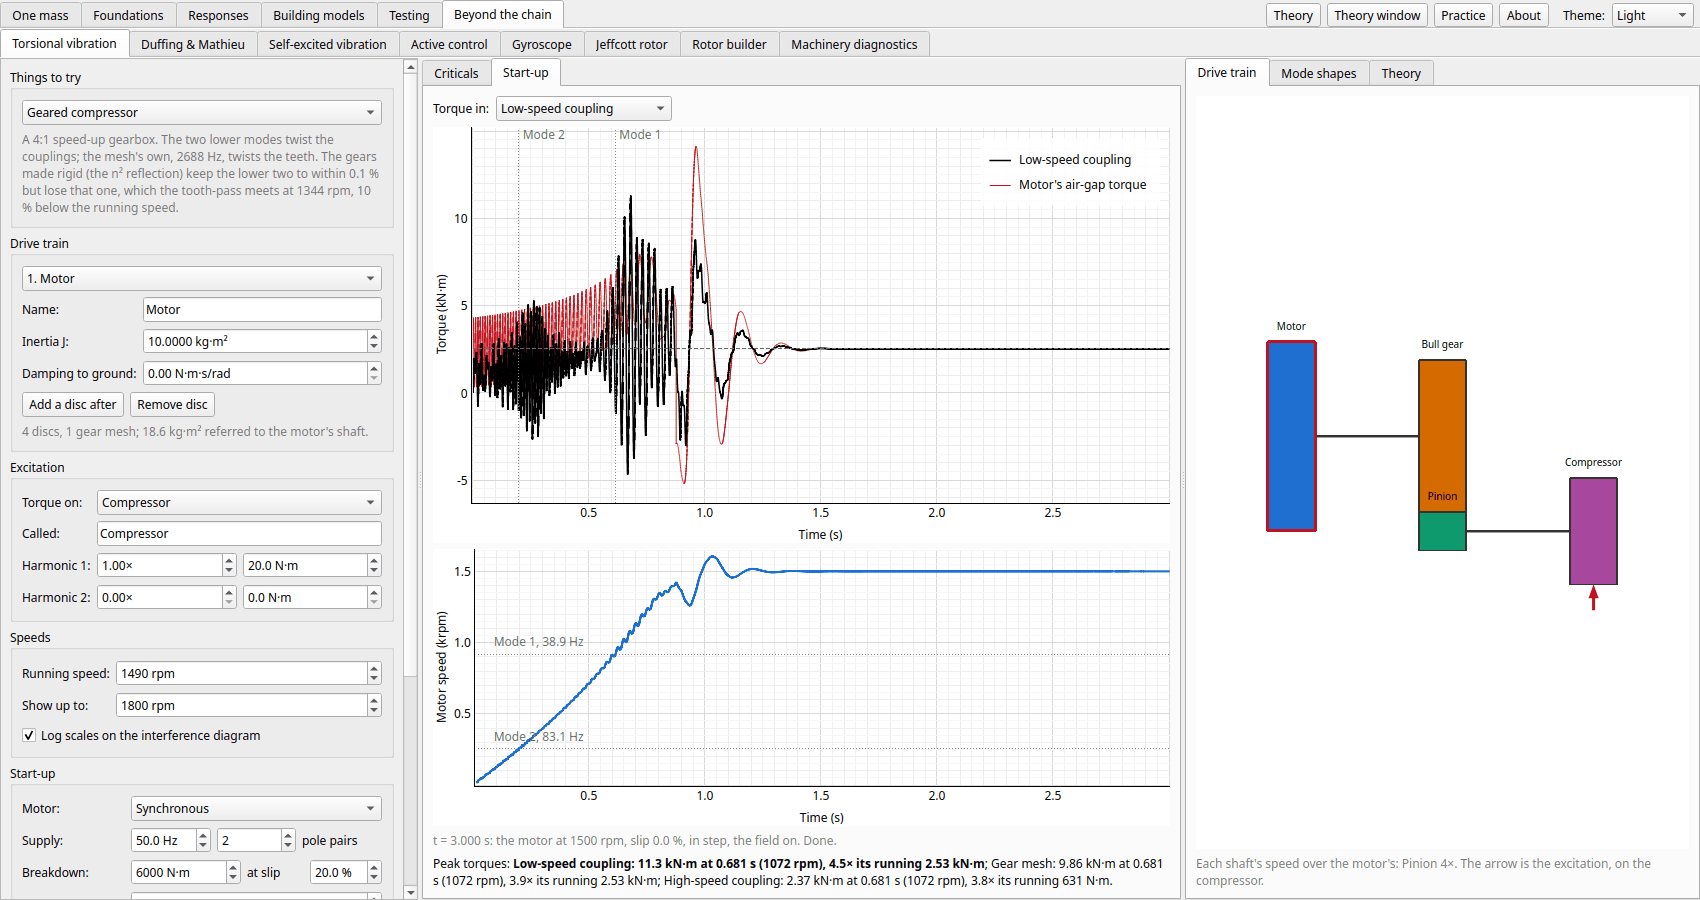
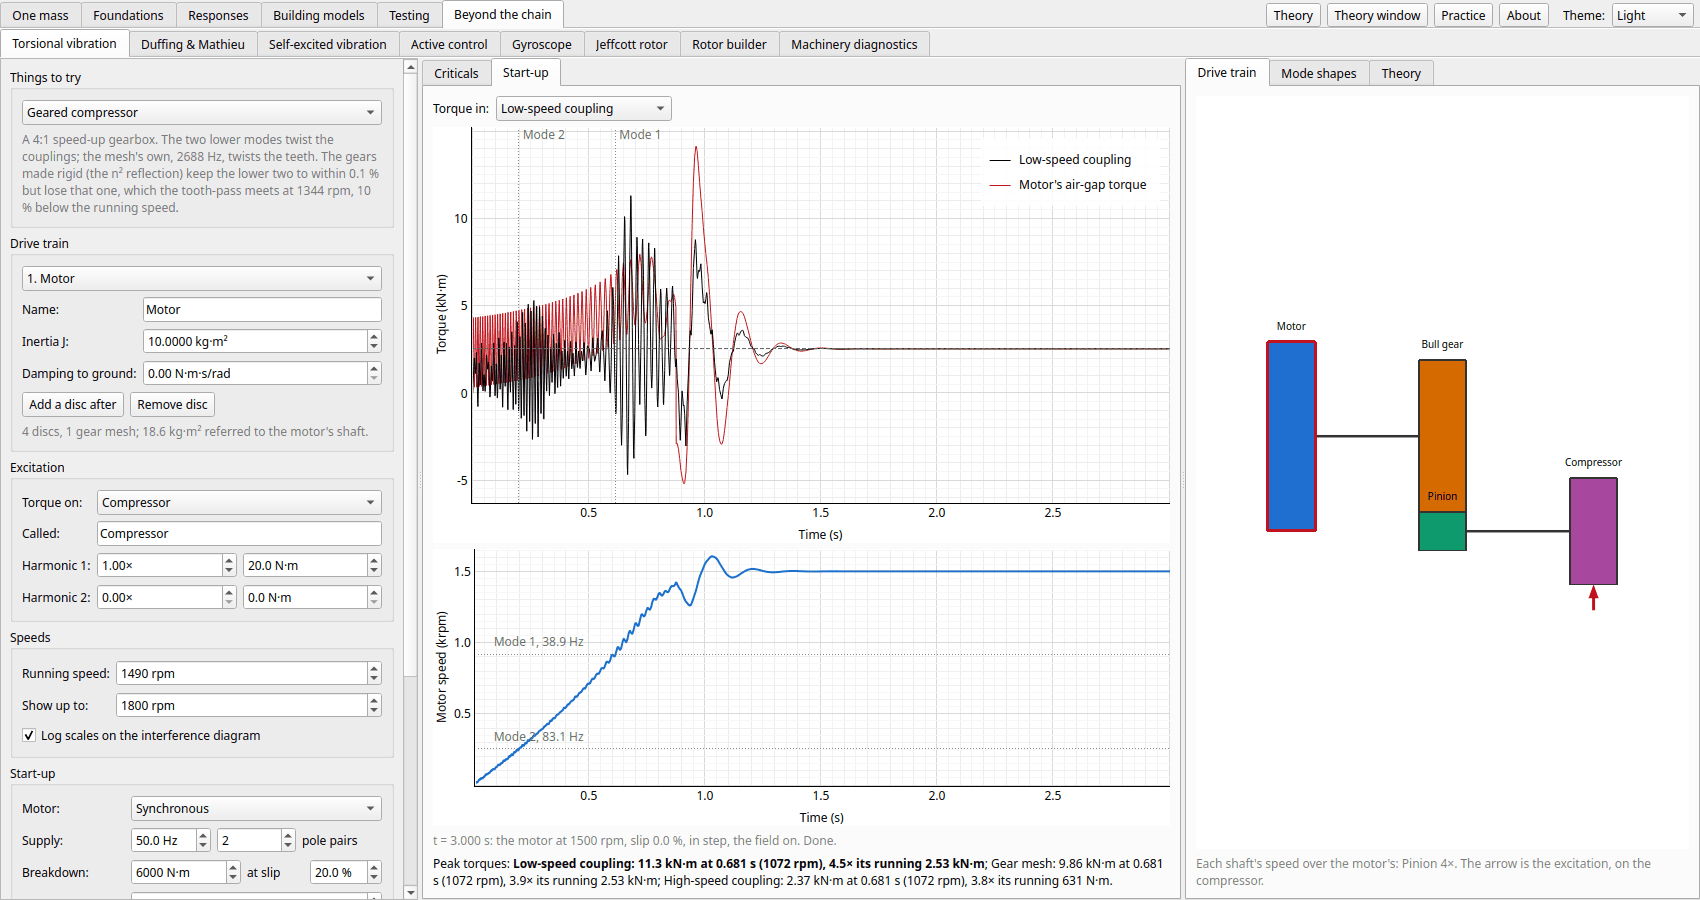
Torsional start-up: decimate its curves, and a 1 px pen on the ringing link
The Mac run (#130) had the compressor's start-up at 20 fps: 41 ms of paint a frame against 1.8 ms of work.
Its tab plotted every step (~12,000 points a curve by the end) and the link's 1.5 px pen made Qt stroke
the outline of every turn of its ringing zigzag: 9 ms a paint even at 726 points, 0.1 ms at 1 px.

The curves now keep each one's min and max per pixel column of the run's whole span (plots.Decimator,
cached as the run grows, reset with the run or the link shown), and the link's pen is 1 px; it stays
apart from the motor's by colour. Offscreen: 43.5 → 57.8 fps, paint 16.2 → 7.1 ms.

Changed region(s): [[0.2806, 0.2489, 0.4676, 0.4978]]

diff --git a/src/vib_tutorial/gui/torsional.py b/src/vib_tutorial/gui/torsional.py
@@ -8,6 +8,12 @@ with the steady dynamic torque in a link against the motor's speed; and the star
 shafts' torque and the motor's speed against time as it runs. Right: the train drawn, its
 mode shapes, and the notes. The page has its own model (core/torsional.py and
 core/torsional_startup.py), not the chain.
+
+Working on it
+-------------
+The start-up's curves keep each one's min and max per pixel column of the run's whole span (`plots.Decimator`,
+reset with the run or the link shown), and the ringing link's pen is 1 px: every step drawn, or a wider pen's
+joins on its zigzag, made it 20 fps at 2× on a Mac. `test_torsional_start_up` checks the points and extremes.
 """
 
 from __future__ import annotations
@@ -58,6 +64,7 @@ from .layouts import ColumnScroll, FlowLayout, form_layout, group, plot_height
 from .lesson import RunButton, connect_all, set_quietly
 from .links import load_notes, page_link
 from .panels import spin
+from .plots import Decimator
 from .style import colors
 from .theming import add_legend, mute
 
@@ -1134,6 +1141,7 @@ class TorsionalPage(QtWidgets.QWidget):
         self._rpm = np.empty(cap)
         self._motor = np.empty(cap)
         self._links = np.empty((t.n - 1, cap))
+        self._decimator = Decimator()  # the curves' min and max per pixel column, kept as the run grows
         self._running = running_torques(t, su) if self.motor_on else np.full(t.n - 1, math.nan)
         self._crossings = crossings(t, su.motor) if self.motor_on else []
         self._passed: set[int] = set()
@@ -1282,9 +1290,24 @@ class TorsionalPage(QtWidgets.QWidget):
             if math.isfinite(run):
                 self.running_line.setPos(run)
         t = self._t[:k]
-        self.link_curve.setData(t, self._links[j, :k] if 0 <= j < self._links.shape[0] else t * 0.0)
-        self.motor_curve.setData(t, self._motor[:k])
-        self.speed_curve.setData(t, self._rpm[:k])
+        link = self._links[j] if 0 <= j < self._links.shape[0] else np.zeros_like(self._t)
+        # Every step is ~12,000 points a curve by the end, ringing fast: painting them all took 41 ms a frame
+        # at 2× on a Mac (20 fps). Keep each curve's min and max per pixel column of the run's whole span.
+        width = max(100, int(self.startup_torque.getPlotItem().vb.width()))
+        total = max(k, self._t.size)
+        if full:
+            self._decimator.reset()
+        if k > 2 * width:
+            self._decimator.max_points = max(2, int(2 * width * k / total))
+            picks = self._decimator.index(
+                0, k, lambda i: np.column_stack([link[:k][i], self._motor[:k][i], self._rpm[:k][i]]), 3
+            )
+        else:
+            picks = [np.arange(k)] * 3
+        for curve, y, rows in zip(
+            (self.link_curve, self.motor_curve, self.speed_curve), (link, self._motor, self._rpm), picks
+        ):
+            curve.setData(t[rows], y[:k][rows])
         for i, c in enumerate(self._crossings):
             if i not in self._passed and k and self._rpm[k - 1] >= c.rpm:
                 self._passed.add(i)
@@ -1374,7 +1397,7 @@ class TorsionalPage(QtWidgets.QWidget):
         self._style_startup()
 
     def _style_startup(self) -> None:
-        self.link_curve.setPen(pg.mkPen(colors.strong, width=1.5))
+        self.link_curve.setPen(pg.mkPen(colors.strong, width=1))
         self.motor_curve.setPen(pg.mkPen(colors.force, width=1))
         self.speed_curve.setPen(pg.mkPen(colors.mass[0], width=2))
         self.running_line.setPen(pg.mkPen(colors.muted, width=1, style=QtCore.Qt.PenStyle.DashLine))

diff --git a/tests/test_gui_smoke.py b/tests/test_gui_smoke.py
@@ -3385,7 +3385,13 @@ def test_torsional_start_up(app):
     assert p.sim.done and p.pause_button.text() == "Start"  # from rest again
     assert "Done." in p.startup_status.text()
     assert "<b>Coupling: 6 kN·m at 0.068 s (38 rpm), 10.3× its running 580 N·m</b>" in p.startup_note.text()
-    assert p.link_curve.xData.size == p._k  # (getData is what shows, decimated)
+    # Two points a pixel column at most (each curve's min and max), keeping every extreme: every step of a ringing
+    # curve took 41 ms a frame to paint at 2× on a Mac.
+    width = int(p.startup_torque.getPlotItem().vb.width())
+    j = p.startup_link.currentIndex()
+    for curve, y in ((p.link_curve, p._links[j]), (p.motor_curve, p._motor), (p.speed_curve, p._rpm)):
+        assert curve.xData.size <= 2 * width + 6 < p._k
+        assert (curve.yData.max(), curve.yData.min()) == (y[: p._k].max(), y[: p._k].min())
 
     p.preset.setCurrentText("Geared compressor")
     assert p.motor_kind.currentText() == "Synchronous" and p._k == 0 and not p.running
